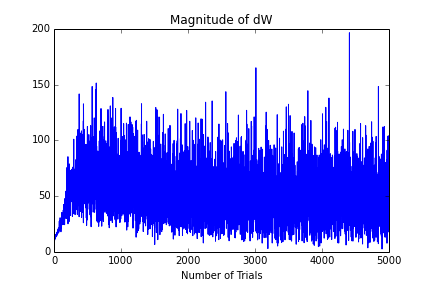
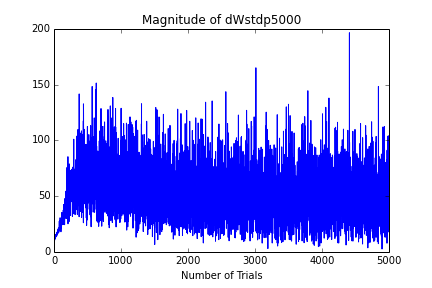
Plotted Cyy and Yave. I also cleaned up the titles of the figures.

Changed region(s): [[0.331, 0.0312, 0.6921, 0.0938]]

diff --git a/Plotting/SAILnet_Plotting.py b/Plotting/SAILnet_Plotting.py
@@ -52,34 +52,34 @@ class Run():
         
     def Plotstdp(self):
         plt.plot(self.mag_stdp, color="green", label="STDP")
-        plt.title("Magnitude of STDP")
+        plt.title("Magnitude of STDP"+self.fileName[:len(self.fileName)-4])
         plt.xlabel("Number of Trials")
         plt.savefig('Images\Magnitude STDP Using'+self.fileName[:len(self.fileName)-4]+'.png')
     
     def PlotdW(self):
         plt.plot(self.mag_dW,color="blue", label="dW")
-        plt.title("Magnitude of dW")
+        plt.title("Magnitude of dW"+self.fileName[:len(self.fileName)-4])
         plt.xlabel("Number of Trials")
         plt.savefig('Images\Magnitude dW Using'+self.fileName[:len(self.fileName)-4]+'.png')
         
     def PlotYavg(self):
         
-        plt.plot(self.Yavg, color="yellow")
-        plt.title(self.fileName + 'Y_avg')
+        plt.plot(self.Yavg, color="brown")
+        plt.title(self.fileName[:len(self.fileName)-4] + 'Y_avg')
         plt.xlabel("Number of Trials")
         plt.savefig('Images\Y_avg'+self.fileName[:len(self.fileName)-4]+'.png')
     
     def PlotCavg(self):
         
         plt.plot(self.Cavg, color="red")
-        plt.title(self.fileName + 'C_avg')
+        plt.title(self.fileName[:len(self.fileName)-4] + 'C_avg')
         plt.xlabel("Number of Trials")
         plt.savefig('Images\C_avg'+ self.fileName[:len(self.fileName)-4] + '.png')
         
     def Plotcor(self):
         
         plt.plot(self.correlation, color = "purple")
-        plt.title(self.fileName + 'Correlation of dW and STDP')
+        plt.title(self.fileName[:len(self.fileName)-4] + 'Correlation of dW and STDP')
         plt.xlabel("Number of Trials")
         plt.savefig('Images\Correlation of dW and STDP'+self.fileName[:len(self.fileName)-4] +'.png')
 
@@ -124,9 +124,13 @@ plt.figure(dW1000.Plot_RF())
 
 plt.figure(stdp1000.Plot_RF())
 
+plt.figure(stdp5000.PlotYavg())
 
+plt.figure(dW5000.PlotYavg())
+
+plt.figure(stdp5000.PlotCavg())
     
-
+plt.figure(dW5000.PlotCavg())
 
 
 
